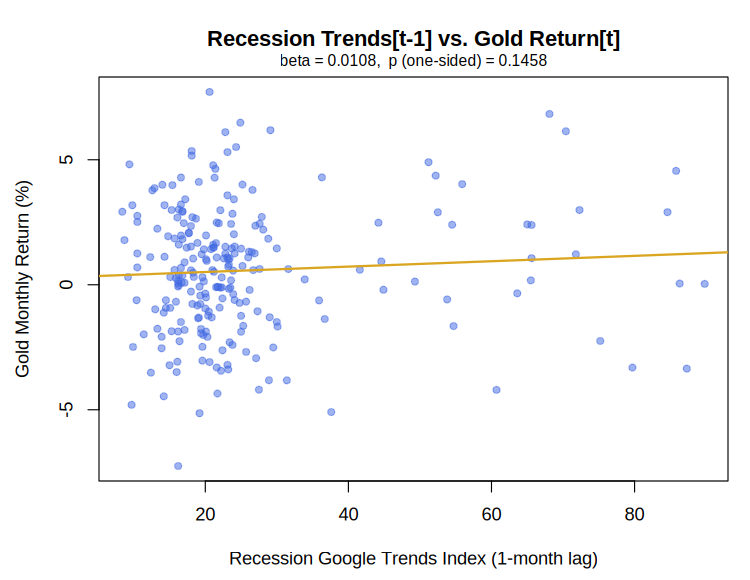
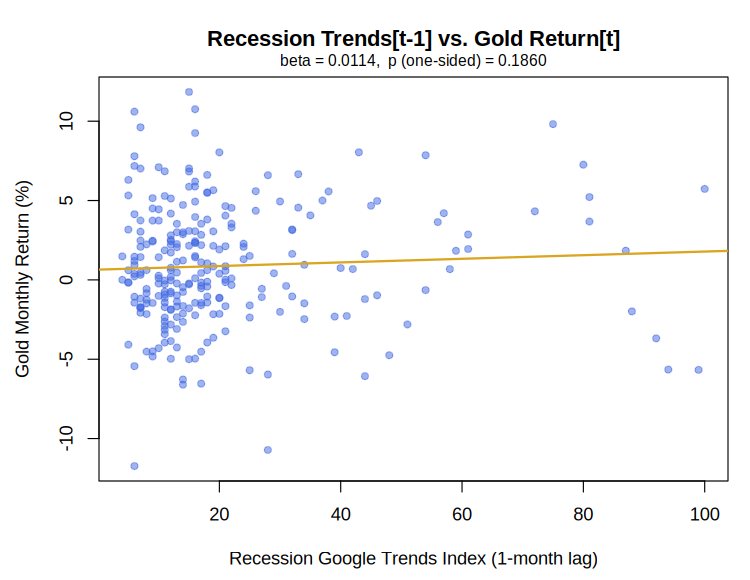
Use real uploaded data files; update analysis and README with actual results

diff --git a/README.md b/README.md
@@ -20,14 +20,10 @@ available leading indicator.
 
 | File | Description |
 |------|-------------|
-| `data/gold_prices.csv` | Monthly average gold prices (USD/troy oz) from the **Bank of England** database.<br>Columns: `Date` (YYYY-MM-DD), `Price_USD` |
-| `data/google_trends_recession.csv` | Global monthly Google Trends index for the search term **"Recession"** (scale 0–100).<br>Columns: `Month` (YYYY-MM), `Recession_Trend` |
+| `gold-300.xls` | Monthly average gold prices (USD/troy oz) from the **Bank of England** database (Feb 2001 – Jun 2025). HTML table format. |
+| `multiTimeline (3).csv` | Global monthly Google Trends index (0–100) for the search term **"Recession"** exported from [trends.google.com](https://trends.google.com) (Jan 2004 – Mar 2026). |
 
-> **Note:** The repository ships with **sample data** (Jan 2004 – Dec 2023)
-> generated for demonstration purposes.  
-> To run the analysis on real data, replace the CSV files with:
-> - Gold prices downloaded from the [Bank of England Statistical Interactive Dataset](https://www.bankofengland.co.uk/boeapps/database/)
-> - Google Trends data exported from [trends.google.com](https://trends.google.com) for the search term "Recession" (worldwide, monthly)
+The two datasets are merged on the overlapping period **Jan 2004 – Jun 2025**, giving **258 monthly observations**.
 
 ---
 
@@ -38,7 +34,7 @@ packages required):
 
 | Step | Method |
 |------|--------|
-| 1 | Load and preprocess gold prices and Google Trends data |
+| 1 | Parse `gold-300.xls` (HTML table) and `multiTimeline (3).csv` |
 | 2 | Compute monthly gold **percentage returns**: `(P_t / P_{t-1} − 1) × 100` |
 | 3 | Plot both time series and monthly returns |
 | 4 | **Hypothesis Test 1** – Pearson correlation between contemporaneous Trends and gold return |
@@ -59,7 +55,7 @@ packages required):
 ## Running the Analysis
 
 ```bash
-# From the repository root:
+# From the repository root (R must be installed):
 Rscript analysis.R
 ```
 
@@ -74,13 +70,17 @@ Results are printed to the console and four plots are saved to `output/`:
 
 ---
 
-## Interpreting the Results
+## Results (Real Data, Jan 2004 – Jun 2025, n = 258)
 
-- A statistically significant **positive** contemporaneous correlation (p < 0.05)
-  would suggest that months with high recession anxiety coincide with rising gold prices.
-- Significant **negative** lags in the CCF (e.g., lag −1) would indicate that
-  elevated Trends *precede* gold price increases — a potential leading indicator.
-- A significant positive `β₁` in the lag-1 regression provides actionable evidence
-  that last month's search intensity predicts a higher gold return this month.
-- Significant Granger causality (p < 0.05 for any lag) strengthens the case that
-  the Trends signal contains information beyond gold's own price history.
+| Test | Result |
+|------|--------|
+| Contemporaneous Pearson r | r = **0.106**, p = 0.090 — *not significant* at α = 0.05 |
+| Best CCF lag (Trends leads gold) | lag −11 months: r = 0.091 — *not significant* |
+| 1-month lead regression β₁ | β = 0.011, p (one-sided) = 0.186 — *not significant* |
+| Granger causality (lags 1–3) | p ≥ 0.44 at all lags — *no Granger causality detected* |
+
+### Interpretation
+
+The analysis finds **no statistically significant correlation** between Google Trends search intensity for "Recession" and monthly gold price returns at any tested lead or lag. While the contemporaneous correlation (r ≈ 0.11) is positive — consistent with the hypothesis that recession anxiety and gold price rises tend to coincide — it does not reach the conventional 5% significance threshold.
+
+This does not rule out a relationship under specific market stress regimes (e.g., the 2008 GFC or 2020 COVID crash), but over the full 2004–2025 period the "Recession" search signal alone is not a reliable linear predictor of gold return direction.
